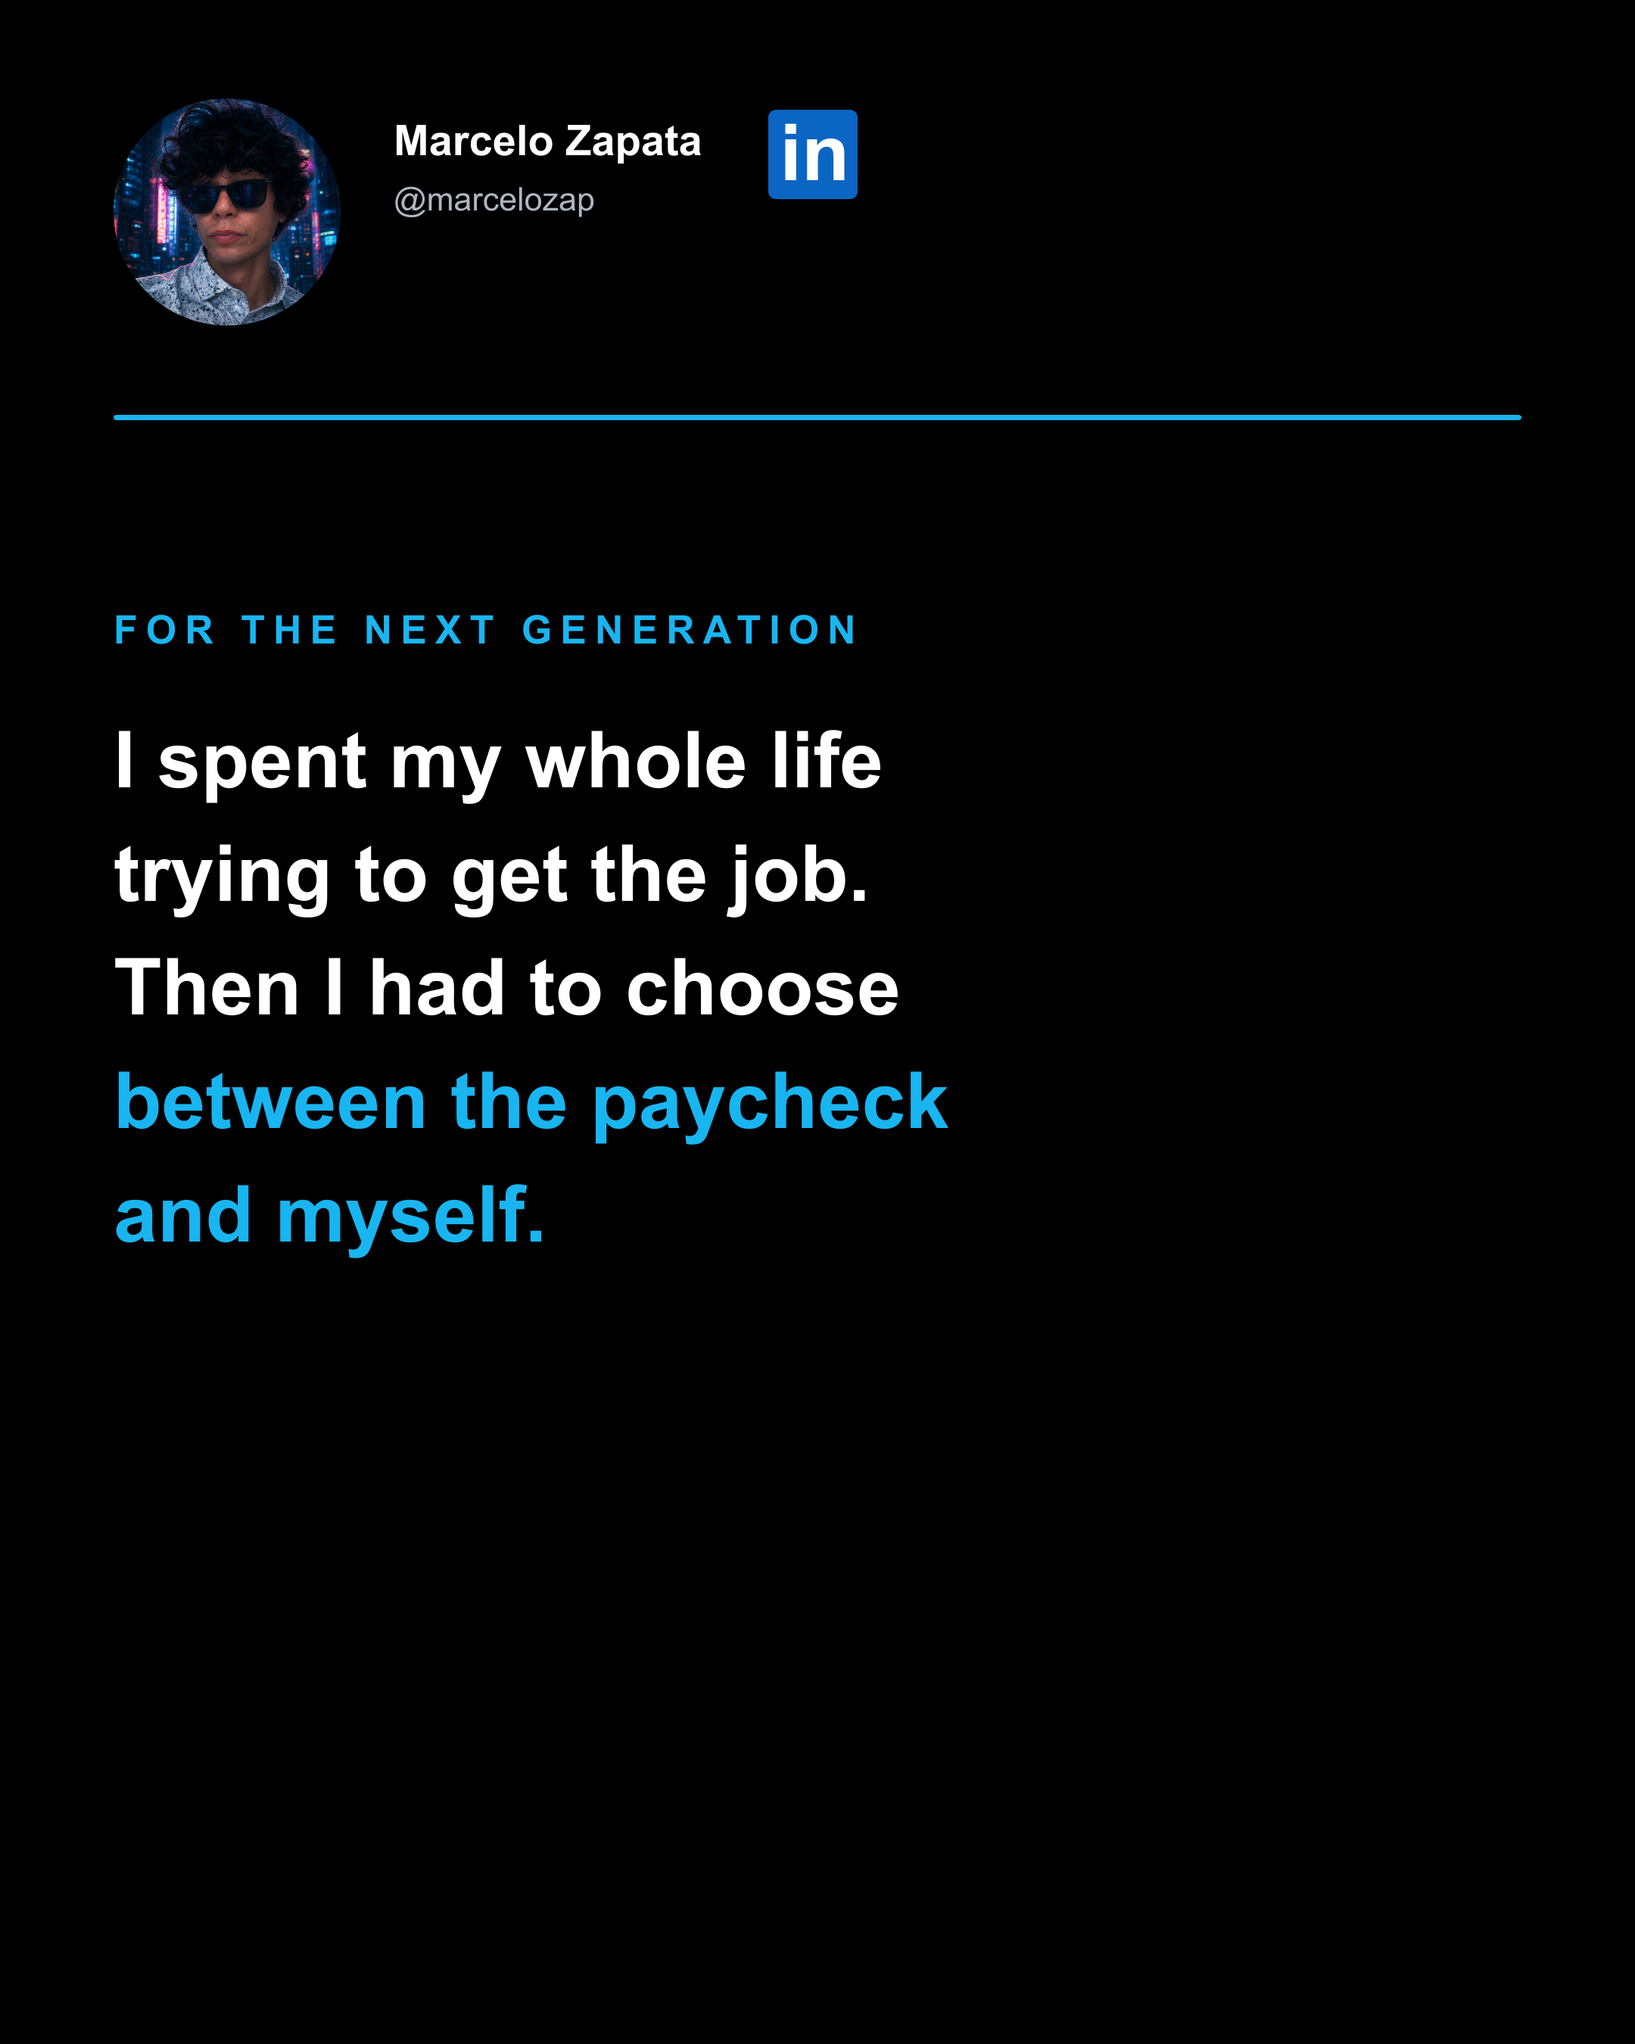
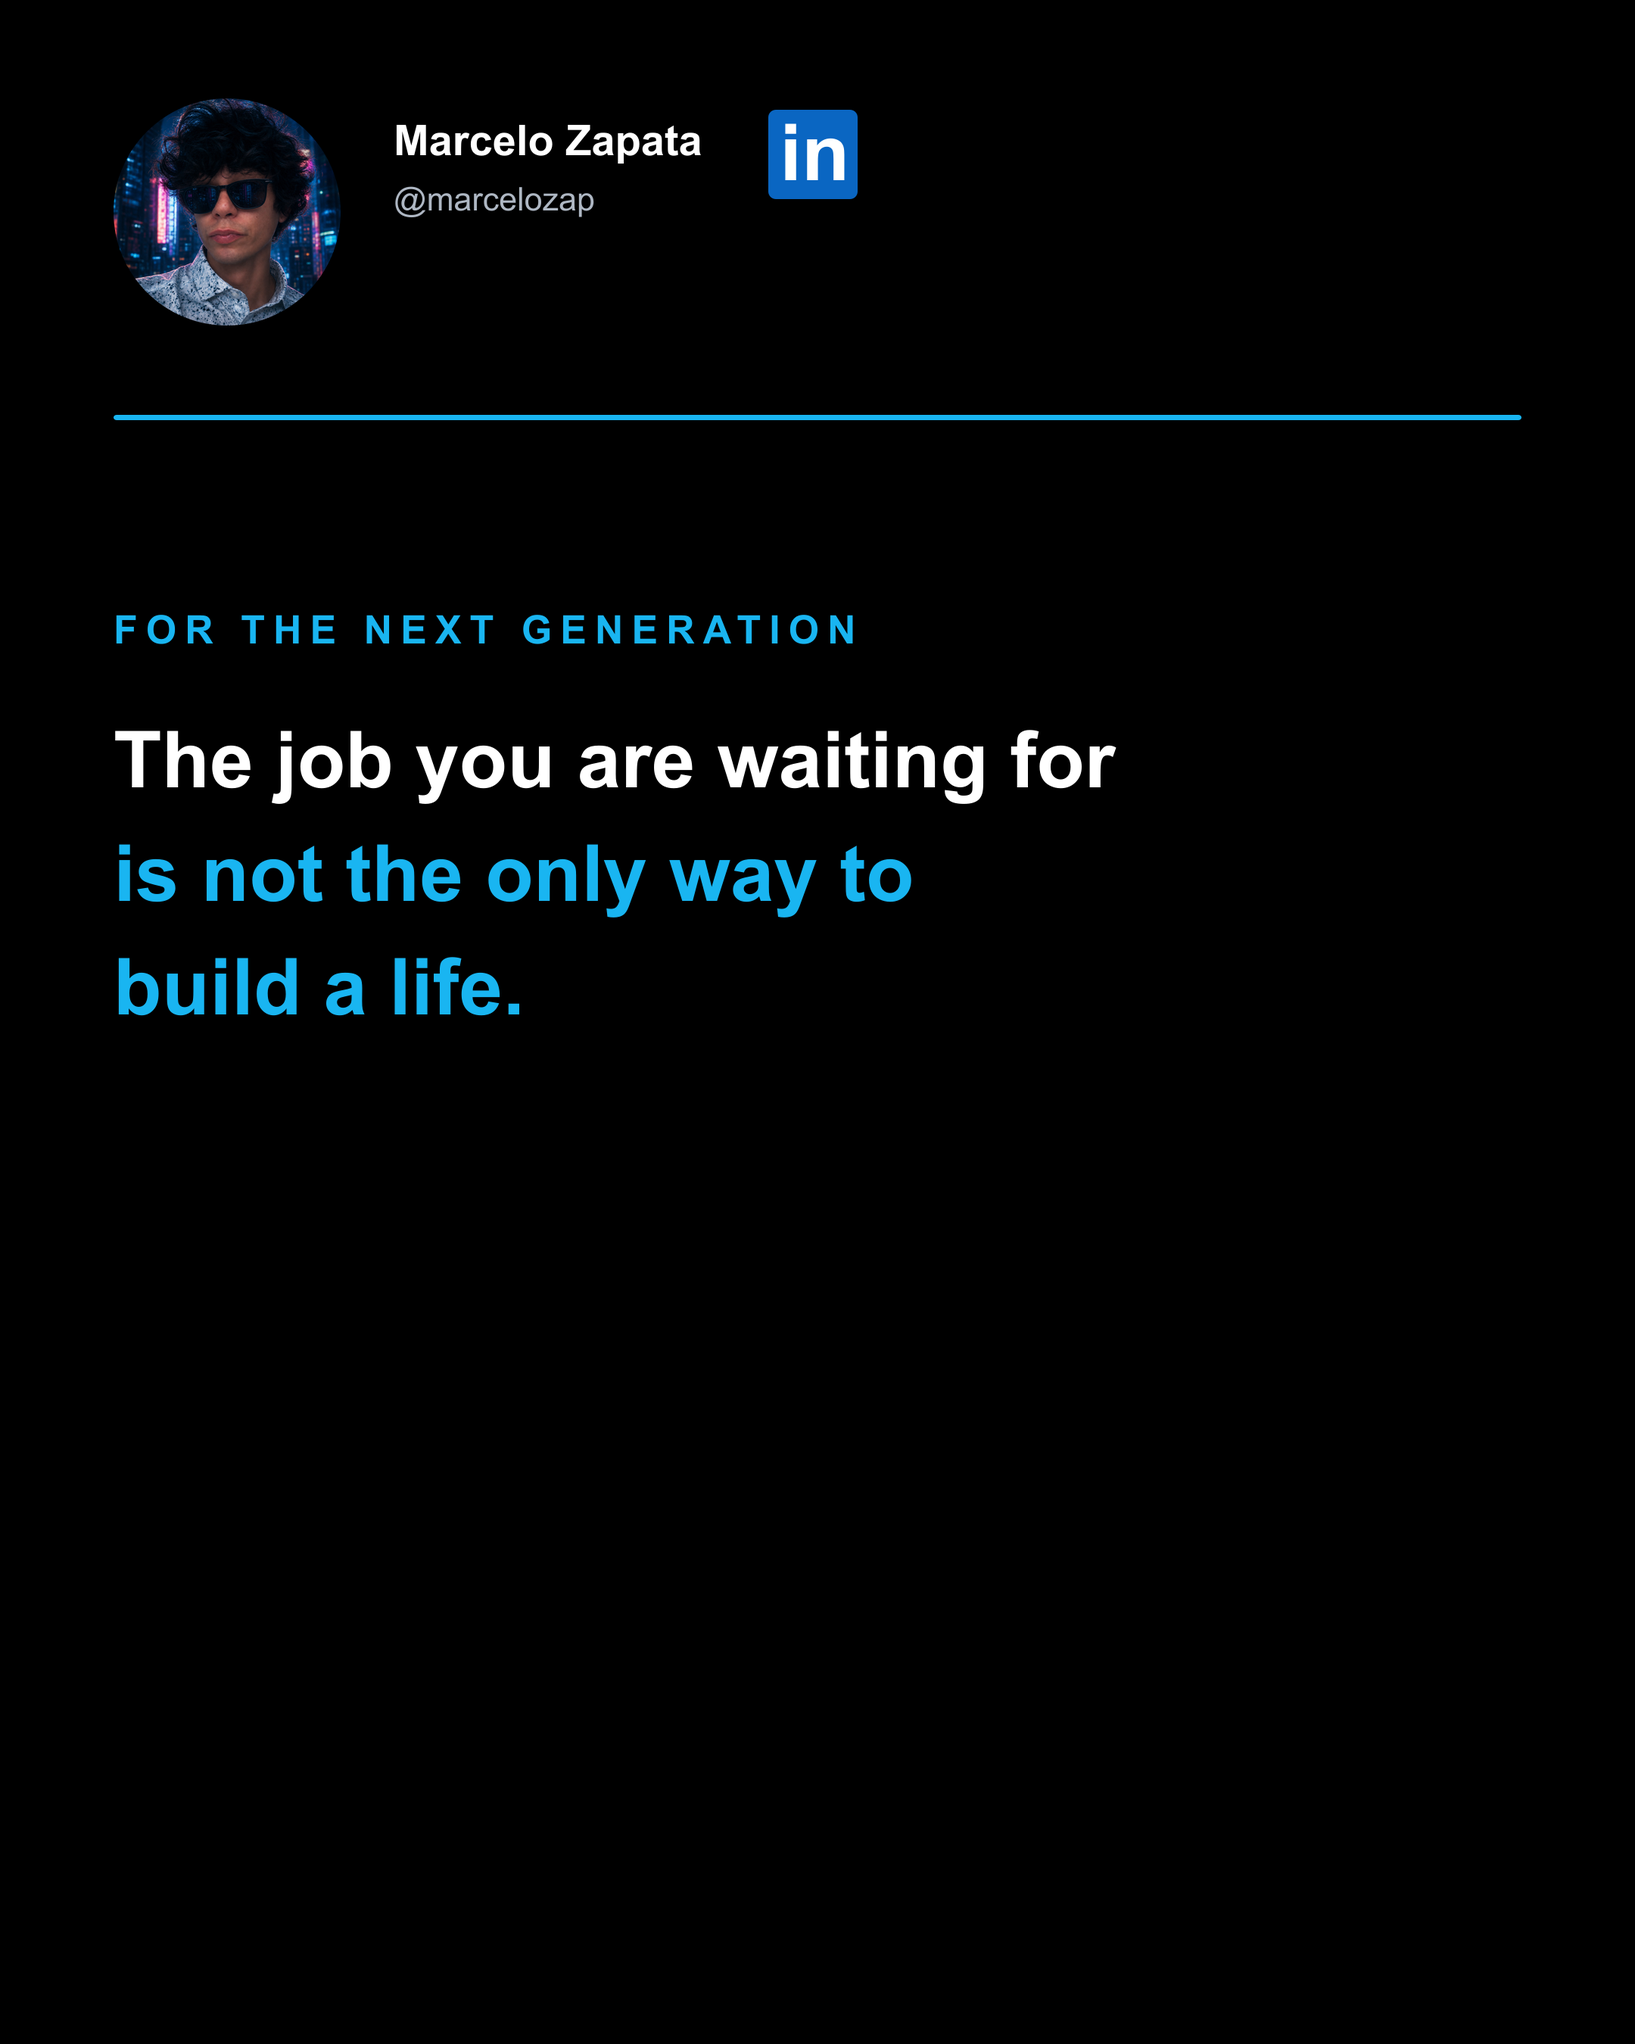
Refocus career note on next generation

Changed region(s): [[0.062, 0.3422, 0.6824, 0.4978], [0.062, 0.5289, 0.5894, 0.6222]]

diff --git a/src/lib/field-notes.ts b/src/lib/field-notes.ts
@@ -16,33 +16,35 @@ export const FIELD_NOTES: FieldNote[] = [
     date: '2026-09-01',
     title: 'The Job Was Not the Dream',
     summary:
-      'I spent my whole life trying to get the job. Then I had to choose between the paycheck and myself. A note to the next generation about access, identity, and building more than one path to a living.',
+      'The job you are waiting for is not the only way to build a life. A note to the next generation about access, identity, and building more than one path to a living.',
     body: [
-      'I spent my whole life thinking the most important thing was getting the job.',
-      'The right company. The stable paycheck. Proof that I had made it.',
-      'When I finally got there, I learned something I wish someone had told me earlier: getting inside is not the same as finding what you were looking for.',
-      'I was 22 when I entered a Fortune 100 technology organization and 26 when I left. Over four years, I watched a company change around AI, access, and power. I also watched how differently the same place could feel depending on who you were connected to.',
-      'Someone whose parent was a senior technology leader joined around the same time I did. He was a good person. I do not hate him, and I do not know what he asked for or what he was promised.',
-      'But his path was consistently supported. He was chosen for opportunities and placed on teams where people invested in him. I faced more friction, less patience, and treatment that became toxic over time.',
-      'When we talked, he was surprised. From what I could tell, he was genuinely appalled. He was seeing one company. I had been living in another.',
-      'That experience made me question how much of corporate success is talent and how much is access. The honest answer is probably both. Merit matters. So do family connections, timing, sponsorship, and who believes you belong before you have had the chance to prove it.',
-      'But the deeper lesson was what the job asked me to trade.',
-      'My individualism. My identity. The part of me that wanted to build, question, create, and choose my own direction.',
-      'I spent years believing a paycheck would make the trade worth it. When the choice became clear, I chose myself. I would make that choice ten out of ten times.',
-      'I am not romanticizing uncertainty. People need jobs to live. A stable paycheck can matter. Some people genuinely like corporate work, and there is nothing wrong with that.',
-      'But too many people wait on the sidelines for a company to choose them because they believe the job is the life. They imagine the title, the office, the salary, and the belonging. They do not always imagine the slow cost of becoming legible to a system: ask permission, fit the role, protect the hierarchy, and leave the parts of yourself that do not fit at the door.',
-      'So if you are early in your career, ask yourself what you actually want.',
-      'Do you want this job, or do you want security? Recognition? Community? A chance to learn? A way to make a living? Those are different needs, and they do not all require the same path.',
-      'There are more ways to make a living than waiting for one company to validate you.',
-      'Build one skill you can carry. Solve one real problem. Make one small project. Talk to people doing useful work outside the largest organizations. Use AI to learn faster, test ideas, and create proof of what you can do. Keep the job if you need the job, but do not confuse the job with your identity.',
+      'The job you are waiting for is not the only way to build a life.',
+      'I think about people waiting on the sidelines for a job they believe will finally make their life begin.',
+      'I understand that feeling because I spent most of my life believing the same thing.',
+      'The right company. The stable paycheck. The title that would prove I had made it.',
+      'I was 22 when I entered a Fortune 100 technology organization and 26 when I left.',
+      'After four years, my summary is simple: companies are not pure meritocracies, titles are not identity, and access changes opportunity.',
+      'Some people begin with family connections, sponsorship, or a direct line to someone who can open the right door. Others are expected to learn the unwritten rules alone.',
+      'That does not mean the people with access are incapable. It means the starting conditions are different.',
+      'The corporate world can provide stability, learning, and a good living. Some people genuinely enjoy it, and there is nothing wrong with that.',
+      'But a job can also ask you to trade away your individualism, your identity, and the parts of yourself that do not fit the role.',
+      'I spent years believing the paycheck would make that trade worth it. When the choice became clear, I chose myself. I would make that choice ten out of ten times.',
+      'I am not romanticizing uncertainty. People need jobs to live. A stable paycheck can matter.',
+      'But too many people wait for one company to validate them because they believe the job is the life.',
+      'They imagine the title, the office, the salary, and the belonging. They do not always imagine the slow cost of becoming legible to a system: asking permission, fitting the role, protecting the hierarchy, and leaving the parts of yourself that do not fit at the door.',
+      'So if you are early in your career, ask yourself what you actually want the job to give you.',
+      'Security? Recognition? Community? A chance to learn? A way to make a living?',
+      'Those are different needs, and they do not all require the same path.',
+      'That is one reason AI matters to me. It can lower the cost of learning, prototyping, and proving what you can do.',
+      'It cannot erase unequal access or guarantee success. But it can help someone build evidence, test ideas, and create more than one option.',
+      'Choose a real problem. Build something small. Document what you learn. Talk to people doing useful work outside the largest organizations.',
+      'Keep the job if you need the job. Just do not confuse the job with your identity.',
       'I do not have all the answers. I am still building my own path.',
-      'What I can share is what I learned inside: how organizations work, how access changes opportunity, and how to notice when the cost of belonging is becoming too high.',
-      'The next generation deserves more than a lecture about competing harder for fewer entry-level roles.',
-      'It deserves a clearer map of the choices.',
+      'But I can share what I have learned about work, help you organize what you know, and help you build a first step that belongs to you.',
       'You do not have to abandon yourself to prove you are employable.',
       'What are you really hoping the job will give you?',
     ],
-    closing: 'I CHOSE MYSELF.',
+    closing: 'THE JOB IS NOT THE ONLY DOOR.',
   },
   {
     slug: 'my-big-bet',

diff --git a/docs/brand/LINKEDIN_NOTE_007.md b/docs/brand/LINKEDIN_NOTE_007.md
@@ -6,7 +6,7 @@ Eyebrow: `FOR THE NEXT GENERATION`
 
 Thesis:
 
-> I spent my whole life trying to get the job. Then I had to choose between the paycheck and myself.
+> The job you are waiting for is not the only way to build a life.
 
 Use Marcelo's current sunglasses portrait, the small LinkedIn mark, a black background, warm white type, and the recurring cyan accent.
 
@@ -14,54 +14,62 @@ Card asset: `/brand/linkedin-the-job-was-not-the-dream.png`
 
 ## Caption
 
-I spent my whole life thinking the most important thing was getting the job.
+The job you are waiting for is not the only way to build a life.
 
-The right company. The stable paycheck. Proof that I had made it.
+I think about people waiting on the sidelines for a job they believe will finally make their life begin.
 
-When I finally got there, I learned something I wish someone had told me earlier: getting inside is not the same as finding what you were looking for.
+I understand that feeling because I spent most of my life believing the same thing.
 
-I was 22 when I entered a Fortune 100 technology organization and 26 when I left. Over four years, I watched how differently the same place could feel depending on who you were connected to.
+The right company. The stable paycheck. The title that would prove I had made it.
 
-Someone whose parent was a senior technology leader joined around the same time I did. He was a good person. I do not hate him, and I do not know what he asked for or what he was promised.
+I was 22 when I entered a Fortune 100 technology organization and 26 when I left.
 
-But his path was consistently supported. He was chosen for opportunities and placed on teams where people invested in him. I faced more friction, less patience, and treatment that became toxic over time.
+After four years, my summary is simple: companies are not pure meritocracies, titles are not identity, and access changes opportunity.
 
-When we talked, he was surprised. From what I could tell, he was genuinely appalled. He was seeing one company. I had been living in another.
+Some people begin with family connections, sponsorship, or a direct line to someone who can open the right door. Others are expected to learn the unwritten rules alone.
 
-That experience made me question how much of corporate success is talent and how much is access. The honest answer is probably both. Merit matters. So do family connections, timing, sponsorship, and who believes you belong before you have had the chance to prove it.
+That does not mean the people with access are incapable. It means the starting conditions are different.
 
-But the deeper lesson was what the job asked me to trade.
+The corporate world can provide stability, learning, and a good living. Some people genuinely enjoy it, and there is nothing wrong with that.
 
-My individualism. My identity. The part of me that wanted to build, question, create, and choose my own direction.
+But a job can also ask you to trade away your individualism, your identity, and the parts of yourself that do not fit the role.
 
-I spent years believing a paycheck would make the trade worth it. When the choice became clear, I chose myself. I would make that choice ten out of ten times.
+I spent years believing the paycheck would make that trade worth it. When the choice became clear, I chose myself. I would make that choice ten out of ten times.
 
-I am not romanticizing uncertainty. People need jobs to live. A stable paycheck can matter. Some people genuinely like corporate work, and there is nothing wrong with that.
+I am not romanticizing uncertainty. People need jobs to live. A stable paycheck can matter.
 
-But too many people wait on the sidelines for a company to choose them because they believe the job is the life.
+But too many people wait for one company to validate them because they believe the job is the life.
 
-They imagine the title, the office, the salary, and the belonging. They do not always imagine the slow cost of becoming legible to a system: ask permission, fit the role, protect the hierarchy, and leave the parts of yourself that do not fit at the door.
+They imagine the title, the office, the salary, and the belonging. They do not always imagine the slow cost of becoming legible to a system: asking permission, fitting the role, protecting the hierarchy, and leaving the parts of yourself that do not fit at the door.
 
-So if you are early in your career, ask yourself what you actually want.
+So if you are early in your career, ask yourself what you actually want the job to give you.
 
-Do you want this job, or do you want security? Recognition? Community? A chance to learn? A way to make a living? Those are different needs, and they do not all require the same path.
+Security? Recognition? Community? A chance to learn? A way to make a living?
 
-There are more ways to make a living than waiting for one company to validate you.
+Those are different needs, and they do not all require the same path.
 
-Build one skill you can carry. Solve one real problem. Make one small project. Talk to people doing useful work outside the largest organizations. Use AI to learn faster, test ideas, and create proof of what you can do.
+That is one reason AI matters to me. It can lower the cost of learning, prototyping, and proving what you can do.
 
-Keep the job if you need the job, but do not confuse the job with your identity.
+It cannot erase unequal access or guarantee success. But it can help someone build evidence, test ideas, and create more than one option.
+
+Choose a real problem. Build something small. Document what you learn. Talk to people doing useful work outside the largest organizations.
+
+Keep the job if you need the job. Just do not confuse the job with your identity.
 
 I do not have all the answers. I am still building my own path.
 
-What I can share is what I learned inside: how organizations work, how access changes opportunity, and how to notice when the cost of belonging is becoming too high.
-
-The next generation deserves more than a lecture about competing harder for fewer entry-level roles.
-
-It deserves a clearer map of the choices.
+But I can share what I have learned about work, help you organize what you know, and help you build a first step that belongs to you.
 
 You do not have to abandon yourself to prove you are employable.
 
 What are you really hoping the job will give you?
 
-Full note: https://www.marcelozapata.dev/ai-blog/the-job-was-not-the-dream
+Full note in the first comment.
+
+If you are building something small and want a second set of eyes, send it to me.
+
+English and Spanish.
+
+## First Comment
+
+https://www.marcelozapata.dev/ai-blog/the-job-was-not-the-dream

diff --git a/docs/brand/PUBLIC_BRAND_POSITIONING.md b/docs/brand/PUBLIC_BRAND_POSITIONING.md
@@ -25,7 +25,9 @@ The public impression should be:
    systems thinking, communication, and delivery judgment.
 2. Organizations of any size, independent people, educators, and creators
    looking for practical AI integration.
-3. Technical peers looking for concrete implementation and public proof.
+3. Students and early-career builders looking for a clear map from learning to
+   useful work.
+4. Technical peers looking for concrete implementation and public proof.
 
 The portfolio should answer a hiring manager's questions before it presents a
 service package: What does Marcelo build? Has he shipped in real constraints?
